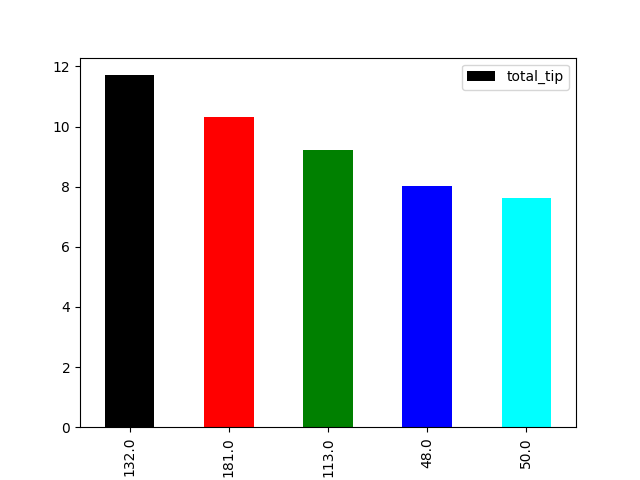
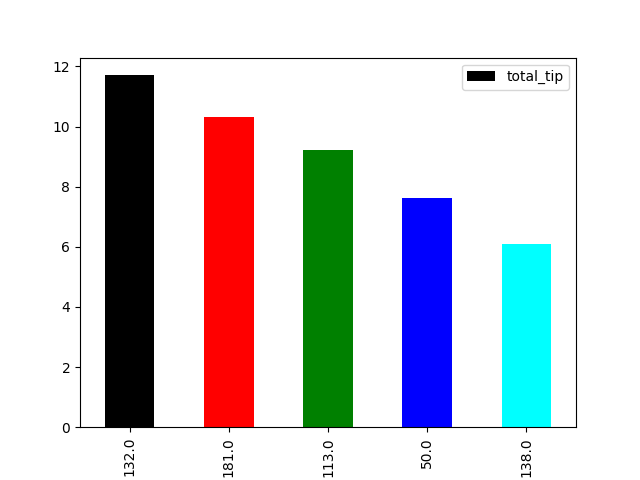
3.5 done

diff --git a/code/customer-code/customerstreamapp/src/main/java/com/kibria/Customerstreamapp.java b/code/customer-code/customerstreamapp/src/main/java/com/kibria/Customerstreamapp.java
@@ -6,9 +6,11 @@ import org.apache.flink.api.common.functions.RuntimeContext;
 
 import org.apache.flink.api.java.tuple.Tuple2;
 import org.apache.flink.api.java.tuple.Tuple3;
+import org.apache.flink.streaming.api.CheckpointingMode;
 import org.apache.flink.streaming.api.TimeCharacteristic;
 import org.apache.flink.streaming.api.datastream.DataStream;
 import org.apache.flink.streaming.api.environment.StreamExecutionEnvironment;
+import org.apache.flink.streaming.api.environment.CheckpointConfig.ExternalizedCheckpointCleanup;
 import org.apache.flink.streaming.api.functions.timestamps.BoundedOutOfOrdernessTimestampExtractor;
 import org.apache.flink.streaming.api.functions.windowing.ProcessWindowFunction;
 import org.apache.flink.streaming.api.windowing.assigners.SlidingEventTimeWindows;
@@ -169,6 +171,28 @@ public class Customerstreamapp {
 		// create execution environment
 		StreamExecutionEnvironment env = StreamExecutionEnvironment.getExecutionEnvironment();
 		
+		// start a checkpoint every 1000 ms
+		env.enableCheckpointing(1000);
+		// advanced options:
+
+		// set mode to exactly-once (this is the default)
+		env.getCheckpointConfig().setCheckpointingMode(CheckpointingMode.EXACTLY_ONCE);
+
+		// make sure 500 ms of progress happen between checkpoints
+		env.getCheckpointConfig().setMinPauseBetweenCheckpoints(500);
+
+		// checkpoints have to complete within one minute, or are discarded
+		env.getCheckpointConfig().setCheckpointTimeout(60000);
+
+		// allow only one checkpoint to be in progress at the same time
+		env.getCheckpointConfig().setMaxConcurrentCheckpoints(1);
+
+		// enable externalized checkpoints which are retained after job cancellation
+		env.getCheckpointConfig().enableExternalizedCheckpoints(ExternalizedCheckpointCleanup.RETAIN_ON_CANCELLATION);
+
+		// allow job recovery fallback to checkpoint when there is a more recent savepoint
+		env.getCheckpointConfig().setPreferCheckpointForRecovery(true);
+
 
 		//Setting to work with EventTime
 		env.setStreamTimeCharacteristic(TimeCharacteristic.EventTime);

diff --git a/reports/Assignment-3-Design.md b/reports/Assignment-3-Design.md
@@ -116,7 +116,7 @@ blah blah blah
 
 All codes related to the streaming analytics are located inside [code/customer-code](../code/customer-code) directory.
 * The **customerstreamapp** is located inside [code/customer-code/customerstreamapp](../code/customer-code/customerstreamapp) directory.
-* We are using the downloaded dataset in CSV format to imitate realtime streaming data. This data stream is generated by [customer_producer.py](../code/customer-code/customer_producer.py)
+* We are using the downloaded dataset in CSV format to imitate realtime streaming data. This data stream is generated by [customer_producer](../code/customer-code/customer_producer.py)
 The input streaming data is the exact JSON representation of each taxi ride event.
 * Finally, when **customerstreamapp** outputs results to the Redis sink, [customer_realtime-view.py](../code/customer-code/customer_realtime-view.py) polls the total tip for each of the locations continously to show the near-realtime output to the customer. 
 
@@ -134,6 +134,7 @@ The **customerstreamapp** has 2 **Event sinks**, one for near-realtime output (`
 1. The output for near-realtime results is a Tuple of 2 **(location_id,total_tip)**. This output is stored in `Redis` as key-value pairs. To provide my customers with a visual aid to understand the output, [customer_realtime-view.py](../code/customer-code/customer_realtime-view.py) polls the total tip for each of the locations continously to show the near-realtime output to the customer using *matplotlib*.  
 
 ![producer](images/outputRT.PNG)
+
 
 
 2. The output for storing batch result is a JSON string consisting of 4 fields (time,location_id,location,total_tip) where *time* is ending timestamp of the window, *location_id* is the pick-up location of the rides in this current window, *location* is the geo_point (longitude,latitude) of the corresponding location_id and *total_tip* is the result of the window. Below is an example:
@@ -233,6 +234,7 @@ But, the area where `elasticsearch` excels is its exceptionally faster query res
 **Implementation:**
 
 First, we define the schema in **mysimbdp-coredms** for storing the streaming results. The schema is created by running the [coredms-schema-upload](../code/customer-code/coredms-schema-upload) bash script. This script creates an index named **nyc-idx** in `elasticsearch` and defines the mapping of incoming data.
+![reduce](images/curl.PNG)
 
 In my **customerstreamapp**, I have added `elasticsearch` as a sink for storing streaming results in which I have passed a class named *ESTotalTipInserter* (`ElasticsearchSinkFunction`).
 
@@ -274,12 +276,39 @@ I have already implemented this batch analytics, and the implementation details 
     I want to perform **batch analytics** on the resultant data of streaming analytics for 24 hours starting from 12AM  January 1st, 2019 till 11.59PM January 1st, 2019.
     ![lat](images/kibanaTime.PNG)
 
-4. Finally I'm selecting the metrics as shown in the screenshot below. Here, I'm aggregating the *total_tip* field and finding the **Sum** for the specified 24 hour time interval. Also, I'm bucketing (grouping) the documents (1 for each result of my streaming analytics which was outputed during the specified time interval) by the location coordinates. 
+4. Finally I'm selecting the metrics as shown in the screenshot below. Here, I'm aggregating the *total_tip* field and finding the **Sum** for the specified 24 hour time interval. Also, I'm bucketing (grouping) the documents (1 for each result of my streaming analytics which was outputted during the specified time interval) by the location coordinates. 
 
     So, the output of batch analytics shows the **Aggregation (Sum)** of total tips for the specified time interval grouped by locations. It plots the locations (geo_points) using *Scaled Circle Markers*, the size of which is proportionate to the amount of the aggregation value. 
      ![lat](images/map.PNG)
 
+**Q3:** Assume that the streaming analytics detects a critical condition (e.g., a very high rate of alerts) that should trigger the execution of a batch analytics to analyze historical data. 
+
+**Answer:** 
+
+Let's consider a suitable critical condition for my streaming analytics application, where it identifies a pick-up location with an **insanely high value** of total tips. So, before disseminating the result back to my customer, it would be wise for my streaming analytics app to perform a batch analytics of the historial outputs to indentify whether this exceedingly high amount of tip aligns with the historial tipping pattern this location. Then it can disseminate the result back to the customer along with the result of the batch analytics of historical streaming results. 
+
+Now that the customer has been presented with, the historical tipping pattern along with the exceedingly high current tip amount for the location, it is *up to the customer* (taxi driver) whether he wants to go to that location to increase his chance of getting such a highly rewarding ride or ignore the location.
+
+For supporting this trigerring of batch analytics, I will implement the following design. 
+
+
+Here, I would add a new component **triggered-batch-analyticsto my streaming analytics service
 
 
 
+**Q5:** Is it possible to achieve end-to-end exactly once delivery in your current implementation? If yes,  
 
+**Answer:** 
+
+**Yes**, it is possible to achieve end-to-end **exactly once** delivery in my current implementation.
+
+In my implementaion, I'm using a single-process `Kafka` producer namely [customer_producer](../code/customer-code/customer_producer.py) to send the event streams to a **single-partitioned** `Kafka` topic called *customerstreamapp-input*. `Kafka` has introduced **Idempotent Producer** in their recent version which solves the duplication problem by sending the message bundled with Sequence number and PID. So, a broker will only accept the message if the sequence number of the incoming message is higher than the previous message. So, even if if the producer retries on failure the message is persisted only once. This works fine for a single producer scenario, which is what I have in my implemenation.
+
+Moreover, as `Flink` supports **exactly once** delivery guarantee by **checkpointing**, which is essentially drawing snapshots of the distributed streaming data flow into a persistent storage. As, I have enabled checkpointing in my **customerstreamapp**, so it ensures **exactly once** processing of the data stream.
+![lat](images/checkpoint.PNG)
+
+Now, as my `Flink` application is ensuring exactly once processing so the `FlinkKafkaConsumer` in this application will always pull messages starting from the correct offset each time (even after failures).  
+
+So, starting from the [customer_producer](../code/customer-code/customer_producer.py) to the end of output of my streaming analytics service, I can achieve end-to-end **exactly once** delivery.
+
+However, in case of scaling up my system, I would have to use the `Transaction API`, provided by `Kafka`, which ensures exactly once delivery across multiple partitions. 
